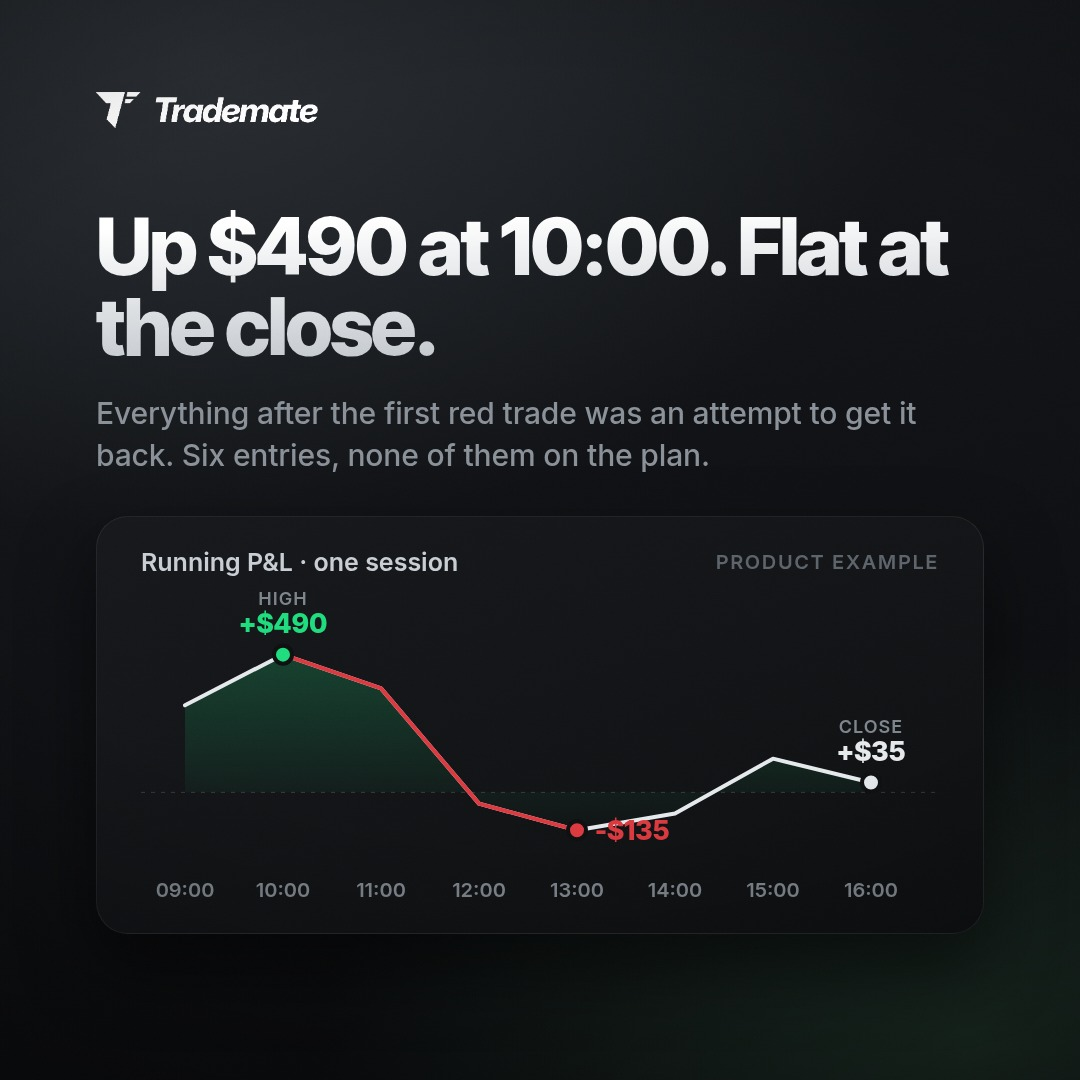
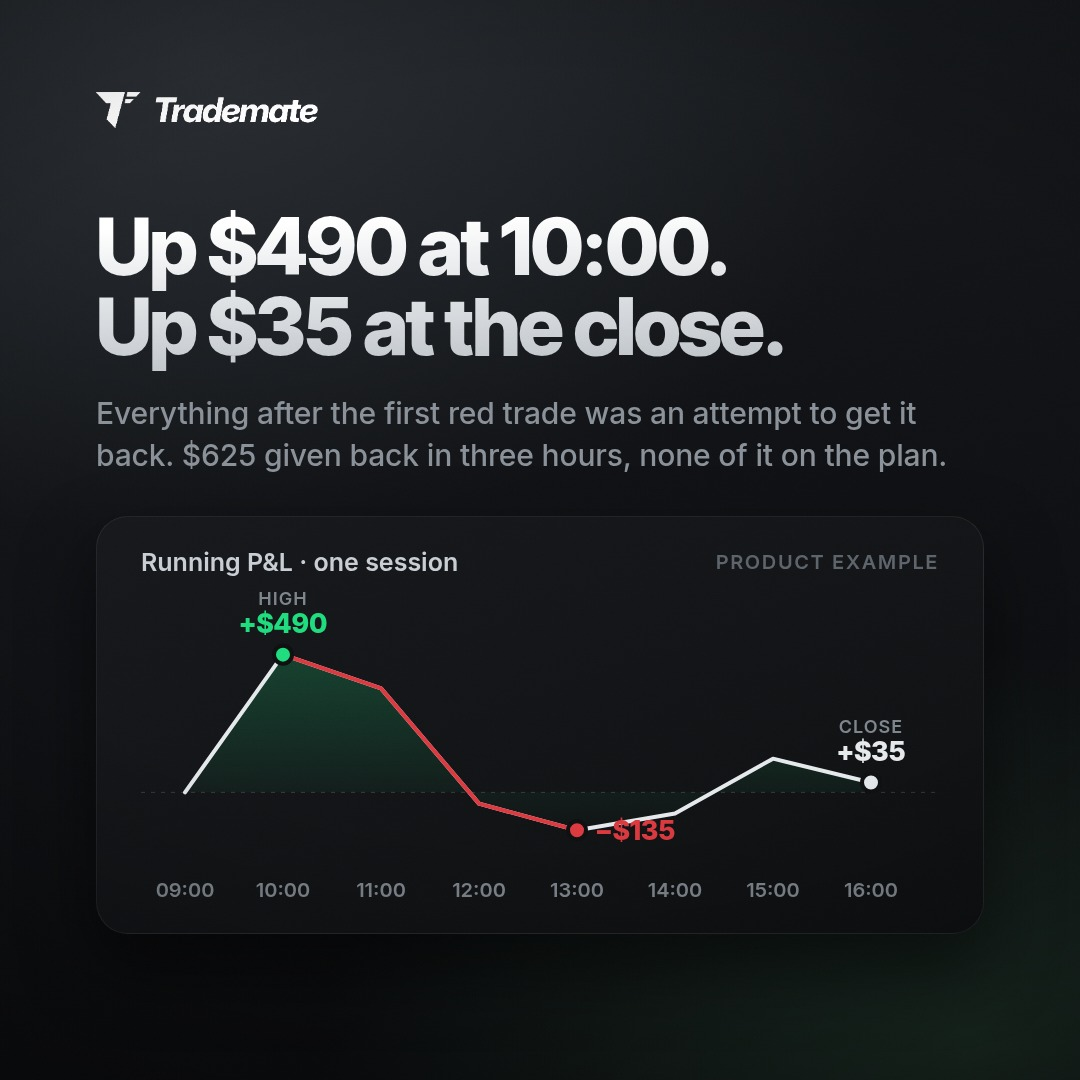
Pain posts: every claim now matches the card
Day post: the running P&L opens at $0 instead of +$310, the headline
states the actual close (+$35) instead of calling it flat, and the sub
quotes the $625 give-back the chart shows rather than an entry count it
cannot show. Swing post: notes say what happened (ran to +3.0R, planned
-1.0R), real minus signs, DE decimals with a comma to match the sub,
DE sub shortened so the card no longer touches the frame. Story headline
breaks before "auto charts" instead of inside it. Captions rewritten so
every figure appears on the card.

Claude-Session: https://claude.ai/code/session_01N2gUmRZUhZ4hqjJePYK53L

diff --git a/posts/pain-day-swing/src/post.html b/posts/pain-day-swing/src/post.html
@@ -151,15 +151,15 @@ en:{
   s6m:'EURUSD · 5m · attached automatically', ent:'Entry', ex:'Exit',
   s7h:'Which ships first?', s7s:'Both are on the roadmap. One of them is next — and you decide which.',
   oA:'Backtesting', oAd:'Comment A', oB:'Auto charts', oBd:'Comment B', s7f:'or vote in today’s story',
-  ste:'Major update · you decide', sth:'Backtesting or auto charts?', sts:'One of them ships next. Which one?',
+  ste:'Major update · you decide', sth:'Backtesting or<br>auto charts?', sts:'One of them ships next. Which one?',
   stA:'Backtesting', stAd:'Run your tagged setup across years of price history before you risk a cent.',
   stB:'Auto charts', stBd:'Every trade gets its chart attached automatically. Entry, exit, stop, target.',
   vote:'Vote below', zoneA:'Poll sticker goes here', zoneB:'Options: Backtesting · Auto charts',
   disc:'Product concept. Features shown are planned, not final.',
-  dayH:'Up $490 at 10:00. Flat at the close.', dayS:'Everything after the first red trade was an attempt to get it back. Six entries, none of them on the plan.',
+  dayH:'Up $490 at 10:00.<br>Up $35 at the close.', dayS:'Everything after the first red trade was an attempt to get it back. $625 given back in three hours, none of it on the plan.',
   dayM:'Running P&L · one session', dayF:'Product example', dayHi:'High', dayCl:'Close',
-  swH:'Three stops. Then you changed the rules.', swS:'The setup did not change. The trader did. Two off-plan exits turned a +1.4R month into -1.9R — more than the three stops cost.',
-  swM:'This month · 6 swing trades', swN:'Net', swP:'Net if on plan', swF:'Product example', plan:'On plan', early:'Exited early', moved:'Stop moved', planned:'plan'
+  swH:'Three stops. Then you changed the rules.', swS:'The setup did not change. The trader did. Two off-plan exits turned +1.4R into −1.9R — a bigger hit than the three stops.',
+  swM:'This month · 6 swing trades', swN:'Net', swP:'Net if on plan', swF:'Product example', plan:'On plan', early:'Exited early', earlyN:'ran to', moved:'Stop moved', movedN:'planned'
 },
 de:{
   swipe:'Wischen →', brand:'Trademate', concept:'Konzept, kein finales UI', of:'von',
@@ -180,15 +180,15 @@ de:{
   s6m:'EURUSD · 5m · automatisch angehängt', ent:'Entry', ex:'Exit',
   s7h:'Was kommt zuerst?', s7s:'Beides steht auf der Roadmap. Eins davon ist das Nächste – und du entscheidest, welches.',
   oA:'Backtesting', oAd:'Kommentar A', oB:'Auto-Charts', oBd:'Kommentar B', s7f:'oder stimm in der heutigen Story ab',
-  ste:'Major Update · du entscheidest', sth:'Backtesting oder Auto-Charts?', sts:'Eins davon kommt als Nächstes. Welches?',
+  ste:'Major Update · du entscheidest', sth:'Backtesting oder<br>Auto-Charts?', sts:'Eins davon kommt als Nächstes. Welches?',
   stA:'Backtesting', stAd:'Lass dein getaggtes Setup über Jahre Kurshistorie laufen, bevor du einen Cent riskierst.',
   stB:'Auto-Charts', stBd:'Jeder Trade bekommt seinen Chart automatisch angehängt. Entry, Exit, Stop, Ziel.',
   vote:'Stimm unten ab', zoneA:'Umfrage-Sticker hier platzieren', zoneB:'Optionen: Backtesting · Auto-Charts',
   disc:'Produktkonzept. Gezeigte Funktionen sind geplant, nicht final.',
-  dayH:'Um 10:00 bei +$490. Zum Close auf null.', dayS:'Alles nach dem ersten roten Trade war der Versuch, es zurückzuholen. Sechs Entries, keiner davon nach Plan.',
+  dayH:'Um 10:00 bei +$490.<br>Zum Close bei +$35.', dayS:'Alles nach dem ersten roten Trade war der Versuch, es zurückzuholen. $625 in drei Stunden zurückgegeben, nichts davon nach Plan.',
   dayM:'Laufender P&L · eine Session', dayF:'Produktbeispiel', dayHi:'Hoch', dayCl:'Close',
-  swH:'Drei Stops. Dann hast du die Regeln geändert.', swS:'Das Setup war dasselbe. Der Trader nicht. Zwei Exits gegen den Plan machten aus +1,4R im Monat -1,9R – mehr, als die drei Stops gekostet haben.',
-  swM:'Dieser Monat · 6 Swing-Trades', swN:'Netto', swP:'Netto nach Plan', swF:'Produktbeispiel', plan:'Nach Plan', early:'Zu früh raus', moved:'Stop verschoben', planned:'Plan'
+  swH:'Drei Stops. Dann hast du die Regeln geändert.', swS:'Das Setup war dasselbe. Der Trader nicht. Zwei Exits gegen den Plan machten aus +1,4R −1,9R – teurer als die drei Stops.',
+  swM:'Dieser Monat · 6 Swing-Trades', swN:'Netto', swP:'Netto nach Plan', swF:'Produktbeispiel', plan:'Nach Plan', early:'Zu früh raus', earlyN:'lief bis', moved:'Stop verschoben', movedN:'geplant'
 }}[LANG];
 
 function candles(){ // deterministic little 5m chart for slide 6
@@ -212,7 +212,7 @@ function candles(){ // deterministic little 5m chart for slide 6
 const logo='<img class="logo" src="logo.png" alt="Trademate">';
 const foot=(n)=>'<div class="foot"><span>'+C.brand+'</span><span>'+(n<7?C.swipe:'')+'</span><span>'+n+' / 7</span></div>';
 function runningPnl(){
-  const pts=[['09:00',310],['10:00',490],['11:00',370],['12:00',-40],['13:00',-135],['14:00',-75],['15:00',120],['16:00',35]];
+  const pts=[['09:00',0],['10:00',490],['11:00',370],['12:00',-40],['13:00',-135],['14:00',-75],['15:00',120],['16:00',35]];
   const W=800,H=330,padL=44,padR=70,top=54,bot=54,min=-230,max=560;
   const x=i=>padL+i*(W-padL-padR)/(pts.length-1), y=v=>top+(max-v)/(max-min)*(H-top-bot);
   let d=pts.map((p,i)=>(i?'L':'M')+x(i)+' '+y(p[1])).join(' ');
@@ -225,8 +225,8 @@ function runningPnl(){
   s+='<path d="M'+x(1)+' '+y(490)+' L'+x(2)+' '+y(370)+' L'+x(3)+' '+y(-40)+' L'+x(4)+' '+y(-135)+'" fill="none" stroke="#DC3A40" stroke-width="4" stroke-linejoin="round" stroke-linecap="round"/>';
   pts.forEach((p,i)=>s+='<text x="'+x(i)+'" y="'+(H-14)+'" text-anchor="middle" font-family="Inter" font-size="20" font-weight="600" fill="#7e868d">'+p[0]+'</text>');
   const mark=(i,v,l,col,dy,side)=>{s+='<circle cx="'+x(i)+'" cy="'+y(v)+'" r="9" fill="'+col+'" stroke="#0e1012" stroke-width="4"/>';
-    if(side){s+='<text x="'+(x(i)+18)+'" y="'+(y(v)+10)+'" font-family="Inter Tight" font-size="27" font-weight="800" fill="'+col+'">'+(v>=0?'+':'-')+'$'+Math.abs(v)+'</text>';return;}
-    s+='<text x="'+x(i)+'" y="'+(y(v)+dy)+'" text-anchor="middle" font-family="Inter Tight" font-size="27" font-weight="800" fill="'+col+'">'+(v>=0?'+':'-')+'$'+Math.abs(v)+'</text>';
+    if(side){s+='<text x="'+(x(i)+18)+'" y="'+(y(v)+10)+'" font-family="Inter Tight" font-size="27" font-weight="800" fill="'+col+'">'+(v>=0?'+':'−')+'$'+Math.abs(v)+'</text>';return;}
+    s+='<text x="'+x(i)+'" y="'+(y(v)+dy)+'" text-anchor="middle" font-family="Inter Tight" font-size="27" font-weight="800" fill="'+col+'">'+(v>=0?'+':'−')+'$'+Math.abs(v)+'</text>';
     s+='<text x="'+x(i)+'" y="'+(y(v)+dy+(dy<0?-28:26))+'" text-anchor="middle" font-family="Inter" font-size="18" font-weight="600" fill="#7e868d" letter-spacing="1">'+l.toUpperCase()+'</text>';};
   mark(1,490,C.dayHi,'#1FDD7F',-22); mark(4,-135,'','#DC3A40',0,true); mark(7,35,C.dayCl,'#e6e9ec',-22);
   return s+'</svg>';
@@ -242,15 +242,16 @@ function hourBars(){
     s+='<text x="'+(x+bw/2)+'" y="'+(H-6)+'" text-anchor="middle" font-family="Inter" font-size="21" font-weight="600" fill="#7e868d">'+h+':00</text>';});
   return s+'</svg>';
 }
-const swingRows=[['EURUSD','-1.0R','plan',''],['NVDA','-1.0R','plan',''],['GBPJPY','-1.0R','plan',''],['XAUUSD','+0.5R','early','+3.0R'],['AAPL','-1.8R','moved','-1.0R'],['MSFT','+2.4R','plan','']];
+const swingRows=[['EURUSD',-1.0,'plan',null],['NVDA',-1.0,'plan',null],['GBPJPY',-1.0,'plan',null],['XAUUSD',0.5,'early',3.0],['AAPL',-1.8,'moved',-1.0],['MSFT',2.4,'plan',null]];
+const fmtR=v=>(v>=0?'+':'−')+Math.abs(v).toFixed(1).replace('.',LANG==='de'?',':'.')+'R';
 const S={
  day:()=>logo+'<div class="hl" style="margin-top:78px">'+C.dayH+'</div><div class="sub">'+C.dayS+'</div>'
    +'<div class="card" style="margin-top:40px;padding:30px 44px 18px"><div class="hdr"><div class="t">'+C.dayM+'</div><div class="m">'+C.dayF+'</div></div><div style="margin-top:4px">'+runningPnl()+'</div></div>'
 ,
  swing:()=>logo+'<div class="hl" style="margin-top:78px">'+C.swH+'</div><div class="sub">'+C.swS+'</div>'
    +'<div class="card" style="margin-top:34px;padding:28px 44px 22px"><div class="hdr"><div class="t">'+C.swM+'</div><div class="m">'+C.swF+'</div></div>'
-   +'<div class="rows one">'+swingRows.map(([a,b,n,pl])=>'<div'+(n!=='plan'?' class="off"':'')+'><span>'+a+'</span><em>'+C[n]+(pl?' <i>· '+C.planned+' '+pl+'</i>':'')+'</em><b class="'+(b[0]==='+'?'g':'r')+'">'+b+'</b></div>').join('')
-   +'<div class="net"><span>'+C.swN+'</span><b class="r">-1.9R</b></div><div class="net alt"><span>'+C.swP+'</span><b class="g">+1.4R</b></div></div></div>',
+   +'<div class="rows one">'+swingRows.map(([a,b,n,pl])=>'<div'+(n!=='plan'?' class="off"':'')+'><span>'+a+'</span><em>'+C[n]+(pl!==null?' <i>· '+C[n+'N']+' '+fmtR(pl)+'</i>':'')+'</em><b class="'+(b>=0?'g':'r')+'">'+fmtR(b)+'</b></div>').join('')
+   +'<div class="net"><span>'+C.swN+'</span><b class="r">'+fmtR(-1.9)+'</b></div><div class="net alt"><span>'+C.swP+'</span><b class="g">'+fmtR(1.4)+'</b></div></div></div>',
  1:()=>logo+'<div class="eyebrow">'+C.s1e+'</div><div class="hl">'+C.s1h+'</div><div class="sub">'+C.s1s+'</div>'+foot(1),
  2:()=>logo+'<div class="hl" style="margin-top:70px">'+C.s2h+'</div><div class="cols"><div class="col"><h3>'+C.day+'</h3><ul>'+C.d.map(x=>'<li>'+x+'</li>').join('')+'</ul></div><div class="col s"><h3>'+C.swing+'</h3><ul>'+C.s.map(x=>'<li>'+x+'</li>').join('')+'</ul></div></div>'+foot(2),
  3:()=>logo+'<div class="hl" style="margin-top:70px;font-size:74px">'+C.s3h+'</div><div class="sub">'+C.s3s+'</div>'

diff --git a/posts/story-feature-poll/src/post.html b/posts/story-feature-poll/src/post.html
@@ -151,15 +151,15 @@ en:{
   s6m:'EURUSD · 5m · attached automatically', ent:'Entry', ex:'Exit',
   s7h:'Which ships first?', s7s:'Both are on the roadmap. One of them is next — and you decide which.',
   oA:'Backtesting', oAd:'Comment A', oB:'Auto charts', oBd:'Comment B', s7f:'or vote in today’s story',
-  ste:'Major update · you decide', sth:'Backtesting or auto charts?', sts:'One of them ships next. Which one?',
+  ste:'Major update · you decide', sth:'Backtesting or<br>auto charts?', sts:'One of them ships next. Which one?',
   stA:'Backtesting', stAd:'Run your tagged setup across years of price history before you risk a cent.',
   stB:'Auto charts', stBd:'Every trade gets its chart attached automatically. Entry, exit, stop, target.',
   vote:'Vote below', zoneA:'Poll sticker goes here', zoneB:'Options: Backtesting · Auto charts',
   disc:'Product concept. Features shown are planned, not final.',
-  dayH:'Up $490 at 10:00. Flat at the close.', dayS:'Everything after the first red trade was an attempt to get it back. Six entries, none of them on the plan.',
+  dayH:'Up $490 at 10:00.<br>Up $35 at the close.', dayS:'Everything after the first red trade was an attempt to get it back. $625 given back in three hours, none of it on the plan.',
   dayM:'Running P&L · one session', dayF:'Product example', dayHi:'High', dayCl:'Close',
-  swH:'Three stops. Then you changed the rules.', swS:'The setup did not change. The trader did. Two off-plan exits turned a +1.4R month into -1.9R — more than the three stops cost.',
-  swM:'This month · 6 swing trades', swN:'Net', swP:'Net if on plan', swF:'Product example', plan:'On plan', early:'Exited early', moved:'Stop moved', planned:'plan'
+  swH:'Three stops. Then you changed the rules.', swS:'The setup did not change. The trader did. Two off-plan exits turned +1.4R into −1.9R — a bigger hit than the three stops.',
+  swM:'This month · 6 swing trades', swN:'Net', swP:'Net if on plan', swF:'Product example', plan:'On plan', early:'Exited early', earlyN:'ran to', moved:'Stop moved', movedN:'planned'
 },
 de:{
   swipe:'Wischen →', brand:'Trademate', concept:'Konzept, kein finales UI', of:'von',
@@ -180,15 +180,15 @@ de:{
   s6m:'EURUSD · 5m · automatisch angehängt', ent:'Entry', ex:'Exit',
   s7h:'Was kommt zuerst?', s7s:'Beides steht auf der Roadmap. Eins davon ist das Nächste – und du entscheidest, welches.',
   oA:'Backtesting', oAd:'Kommentar A', oB:'Auto-Charts', oBd:'Kommentar B', s7f:'oder stimm in der heutigen Story ab',
-  ste:'Major Update · du entscheidest', sth:'Backtesting oder Auto-Charts?', sts:'Eins davon kommt als Nächstes. Welches?',
+  ste:'Major Update · du entscheidest', sth:'Backtesting oder<br>Auto-Charts?', sts:'Eins davon kommt als Nächstes. Welches?',
   stA:'Backtesting', stAd:'Lass dein getaggtes Setup über Jahre Kurshistorie laufen, bevor du einen Cent riskierst.',
   stB:'Auto-Charts', stBd:'Jeder Trade bekommt seinen Chart automatisch angehängt. Entry, Exit, Stop, Ziel.',
   vote:'Stimm unten ab', zoneA:'Umfrage-Sticker hier platzieren', zoneB:'Optionen: Backtesting · Auto-Charts',
   disc:'Produktkonzept. Gezeigte Funktionen sind geplant, nicht final.',
-  dayH:'Um 10:00 bei +$490. Zum Close auf null.', dayS:'Alles nach dem ersten roten Trade war der Versuch, es zurückzuholen. Sechs Entries, keiner davon nach Plan.',
+  dayH:'Um 10:00 bei +$490.<br>Zum Close bei +$35.', dayS:'Alles nach dem ersten roten Trade war der Versuch, es zurückzuholen. $625 in drei Stunden zurückgegeben, nichts davon nach Plan.',
   dayM:'Laufender P&L · eine Session', dayF:'Produktbeispiel', dayHi:'Hoch', dayCl:'Close',
-  swH:'Drei Stops. Dann hast du die Regeln geändert.', swS:'Das Setup war dasselbe. Der Trader nicht. Zwei Exits gegen den Plan machten aus +1,4R im Monat -1,9R – mehr, als die drei Stops gekostet haben.',
-  swM:'Dieser Monat · 6 Swing-Trades', swN:'Netto', swP:'Netto nach Plan', swF:'Produktbeispiel', plan:'Nach Plan', early:'Zu früh raus', moved:'Stop verschoben', planned:'Plan'
+  swH:'Drei Stops. Dann hast du die Regeln geändert.', swS:'Das Setup war dasselbe. Der Trader nicht. Zwei Exits gegen den Plan machten aus +1,4R −1,9R – teurer als die drei Stops.',
+  swM:'Dieser Monat · 6 Swing-Trades', swN:'Netto', swP:'Netto nach Plan', swF:'Produktbeispiel', plan:'Nach Plan', early:'Zu früh raus', earlyN:'lief bis', moved:'Stop verschoben', movedN:'geplant'
 }}[LANG];
 
 function candles(){ // deterministic little 5m chart for slide 6
@@ -212,7 +212,7 @@ function candles(){ // deterministic little 5m chart for slide 6
 const logo='<img class="logo" src="logo.png" alt="Trademate">';
 const foot=(n)=>'<div class="foot"><span>'+C.brand+'</span><span>'+(n<7?C.swipe:'')+'</span><span>'+n+' / 7</span></div>';
 function runningPnl(){
-  const pts=[['09:00',310],['10:00',490],['11:00',370],['12:00',-40],['13:00',-135],['14:00',-75],['15:00',120],['16:00',35]];
+  const pts=[['09:00',0],['10:00',490],['11:00',370],['12:00',-40],['13:00',-135],['14:00',-75],['15:00',120],['16:00',35]];
   const W=800,H=330,padL=44,padR=70,top=54,bot=54,min=-230,max=560;
   const x=i=>padL+i*(W-padL-padR)/(pts.length-1), y=v=>top+(max-v)/(max-min)*(H-top-bot);
   let d=pts.map((p,i)=>(i?'L':'M')+x(i)+' '+y(p[1])).join(' ');
@@ -225,8 +225,8 @@ function runningPnl(){
   s+='<path d="M'+x(1)+' '+y(490)+' L'+x(2)+' '+y(370)+' L'+x(3)+' '+y(-40)+' L'+x(4)+' '+y(-135)+'" fill="none" stroke="#DC3A40" stroke-width="4" stroke-linejoin="round" stroke-linecap="round"/>';
   pts.forEach((p,i)=>s+='<text x="'+x(i)+'" y="'+(H-14)+'" text-anchor="middle" font-family="Inter" font-size="20" font-weight="600" fill="#7e868d">'+p[0]+'</text>');
   const mark=(i,v,l,col,dy,side)=>{s+='<circle cx="'+x(i)+'" cy="'+y(v)+'" r="9" fill="'+col+'" stroke="#0e1012" stroke-width="4"/>';
-    if(side){s+='<text x="'+(x(i)+18)+'" y="'+(y(v)+10)+'" font-family="Inter Tight" font-size="27" font-weight="800" fill="'+col+'">'+(v>=0?'+':'-')+'$'+Math.abs(v)+'</text>';return;}
-    s+='<text x="'+x(i)+'" y="'+(y(v)+dy)+'" text-anchor="middle" font-family="Inter Tight" font-size="27" font-weight="800" fill="'+col+'">'+(v>=0?'+':'-')+'$'+Math.abs(v)+'</text>';
+    if(side){s+='<text x="'+(x(i)+18)+'" y="'+(y(v)+10)+'" font-family="Inter Tight" font-size="27" font-weight="800" fill="'+col+'">'+(v>=0?'+':'−')+'$'+Math.abs(v)+'</text>';return;}
+    s+='<text x="'+x(i)+'" y="'+(y(v)+dy)+'" text-anchor="middle" font-family="Inter Tight" font-size="27" font-weight="800" fill="'+col+'">'+(v>=0?'+':'−')+'$'+Math.abs(v)+'</text>';
     s+='<text x="'+x(i)+'" y="'+(y(v)+dy+(dy<0?-28:26))+'" text-anchor="middle" font-family="Inter" font-size="18" font-weight="600" fill="#7e868d" letter-spacing="1">'+l.toUpperCase()+'</text>';};
   mark(1,490,C.dayHi,'#1FDD7F',-22); mark(4,-135,'','#DC3A40',0,true); mark(7,35,C.dayCl,'#e6e9ec',-22);
   return s+'</svg>';
@@ -242,15 +242,16 @@ function hourBars(){
     s+='<text x="'+(x+bw/2)+'" y="'+(H-6)+'" text-anchor="middle" font-family="Inter" font-size="21" font-weight="600" fill="#7e868d">'+h+':00</text>';});
   return s+'</svg>';
 }
-const swingRows=[['EURUSD','-1.0R','plan',''],['NVDA','-1.0R','plan',''],['GBPJPY','-1.0R','plan',''],['XAUUSD','+0.5R','early','+3.0R'],['AAPL','-1.8R','moved','-1.0R'],['MSFT','+2.4R','plan','']];
+const swingRows=[['EURUSD',-1.0,'plan',null],['NVDA',-1.0,'plan',null],['GBPJPY',-1.0,'plan',null],['XAUUSD',0.5,'early',3.0],['AAPL',-1.8,'moved',-1.0],['MSFT',2.4,'plan',null]];
+const fmtR=v=>(v>=0?'+':'−')+Math.abs(v).toFixed(1).replace('.',LANG==='de'?',':'.')+'R';
 const S={
  day:()=>logo+'<div class="hl" style="margin-top:78px">'+C.dayH+'</div><div class="sub">'+C.dayS+'</div>'
    +'<div class="card" style="margin-top:40px;padding:30px 44px 18px"><div class="hdr"><div class="t">'+C.dayM+'</div><div class="m">'+C.dayF+'</div></div><div style="margin-top:4px">'+runningPnl()+'</div></div>'
 ,
  swing:()=>logo+'<div class="hl" style="margin-top:78px">'+C.swH+'</div><div class="sub">'+C.swS+'</div>'
    +'<div class="card" style="margin-top:34px;padding:28px 44px 22px"><div class="hdr"><div class="t">'+C.swM+'</div><div class="m">'+C.swF+'</div></div>'
-   +'<div class="rows one">'+swingRows.map(([a,b,n,pl])=>'<div'+(n!=='plan'?' class="off"':'')+'><span>'+a+'</span><em>'+C[n]+(pl?' <i>· '+C.planned+' '+pl+'</i>':'')+'</em><b class="'+(b[0]==='+'?'g':'r')+'">'+b+'</b></div>').join('')
-   +'<div class="net"><span>'+C.swN+'</span><b class="r">-1.9R</b></div><div class="net alt"><span>'+C.swP+'</span><b class="g">+1.4R</b></div></div></div>',
+   +'<div class="rows one">'+swingRows.map(([a,b,n,pl])=>'<div'+(n!=='plan'?' class="off"':'')+'><span>'+a+'</span><em>'+C[n]+(pl!==null?' <i>· '+C[n+'N']+' '+fmtR(pl)+'</i>':'')+'</em><b class="'+(b>=0?'g':'r')+'">'+fmtR(b)+'</b></div>').join('')
+   +'<div class="net"><span>'+C.swN+'</span><b class="r">'+fmtR(-1.9)+'</b></div><div class="net alt"><span>'+C.swP+'</span><b class="g">'+fmtR(1.4)+'</b></div></div></div>',
  1:()=>logo+'<div class="eyebrow">'+C.s1e+'</div><div class="hl">'+C.s1h+'</div><div class="sub">'+C.s1s+'</div>'+foot(1),
  2:()=>logo+'<div class="hl" style="margin-top:70px">'+C.s2h+'</div><div class="cols"><div class="col"><h3>'+C.day+'</h3><ul>'+C.d.map(x=>'<li>'+x+'</li>').join('')+'</ul></div><div class="col s"><h3>'+C.swing+'</h3><ul>'+C.s.map(x=>'<li>'+x+'</li>').join('')+'</ul></div></div>'+foot(2),
  3:()=>logo+'<div class="hl" style="margin-top:70px;font-size:74px">'+C.s3h+'</div><div class="sub">'+C.s3s+'</div>'

diff --git a/posts/pain-day-swing/captions.md b/posts/pain-day-swing/captions.md
@@ -1,30 +1,34 @@
 # Feed posts — the day-trader pain, the swing-trader pain
 
 Two independent 1080×1080 posts in the daily-post format, EN and DE. Neither
-mentions a feature or the poll.
+mentions a feature or the poll. Every number in a caption is on the card.
 
-## pain_day — "Up $490 at 10:00. Flat at the close."
+## pain_day — "Up $490 at 10:00. Up $35 at the close."
+
+Card: running P&L of one session. Open at $0, high +$490 at 10:00, low −$135
+at 13:00, close +$35. Give-back 10:00→13:00 = $625.
 
 EN
-Up $490 an hour into the session. Flat at the bell. The chart of that day is
-not a chart of the market — it is a chart of one trader chasing the first
-red trade. Six entries after 11:00, none of them on the plan, every one of
-them an attempt to get back to +$490. The give-back is the most expensive
-hour of the day, and it never shows up in the win rate. Product example:
-these figures illustrate the feature, not real trader results.
+Up $490 one hour into the session. Up $35 at the close. The chart of that
+day is not a chart of the market — it is a chart of one trader chasing the
+first red trade. Between 10:00 and 13:00 the account gave back $625, and not
+one of those entries was on the plan. The afternoon clawed some of it back.
+It usually does, which is exactly why the give-back never shows up in the
+win rate. Product example: these figures illustrate the feature, not real
+trader results.
 
 See your session as a running P&L — 7-day trial, link in bio.
 
 #daytrading #tradingpsychology #tradingjournal #riskmanagement #tradingedge
 
 DE
-Eine Stunde nach Open +$490. Zum Close auf null. Der Chart dieses Tages ist
-kein Chart vom Markt — er ist der Chart eines Traders, der dem ersten roten
-Trade hinterherläuft. Sechs Entries nach 11:00, keiner davon nach Plan, jeder
-ein Versuch, zurück auf +$490 zu kommen. Das Zurückgeben ist die teuerste
-Stunde des Tages, und in der Trefferquote taucht sie nie auf.
-Produktbeispiel: Die Zahlen veranschaulichen die Funktion, keine echten
-Handelsergebnisse.
+Eine Stunde nach Open +$490. Zum Close +$35. Der Chart dieses Tages ist kein
+Chart vom Markt — er ist der Chart eines Traders, der dem ersten roten Trade
+hinterherläuft. Zwischen 10:00 und 13:00 hat das Konto $625 zurückgegeben,
+und kein einziger dieser Entries war nach Plan. Der Nachmittag hat einen
+Teil davon zurückgeholt. Das tut er meistens, und genau deshalb taucht das
+Zurückgeben in der Trefferquote nie auf. Produktbeispiel: Die Zahlen
+veranschaulichen die Funktion, keine echten Handelsergebnisse.
 
 Sieh deine Session als laufenden P&L — 7 Tage kostenlos, Link in Bio.
 
@@ -32,14 +36,19 @@ Sieh deine Session als laufenden P&L — 7 Tage kostenlos, Link in Bio.
 
 ## pain_swing — "Three stops. Then you changed the rules."
 
+Card: six swing trades. Three stops on plan (−1.0R each), XAUUSD exited
+early at +0.5R on a trade that ran to +3.0R, AAPL stop moved from −1.0R to
+−1.8R, MSFT on plan +2.4R. As traded −1.9R, on plan +1.4R. The two
+deviations cost 3.3R, the three stops 3.0R.
+
 EN
 Three stops in a row is the setup doing what setups do. What happened on the
-fourth trade is the part that costs money: out early at +0.5R on a trade
-planned for +3R, then a stop moved on the fifth that turned −1R into −1.8R.
-The setup did not change. The trader did. On plan, the month closes +1.4R.
-As traded, it closes −1.9R. The two deviations cost 3.3R — more than the
-three stops combined. Product example: these figures illustrate the
-feature, not real trader results.
+fourth trade is the part that costs money: out at +0.5R on a trade that went
+on to +3.0R, then a stop moved on the fifth that turned −1.0R into −1.8R. The
+setup did not change. The trader did. On plan, the month closes +1.4R. As
+traded, it closes −1.9R. The two deviations cost 3.3R — more than the three
+stops combined. Product example: these figures illustrate the feature, not
+real trader results.
 
 Tag every off-plan exit — Trademate, link in bio.
 
@@ -48,10 +57,10 @@ Tag every off-plan exit — Trademate, link in bio.
 DE
 Drei Stops in Folge sind das Setup, das tut, was Setups tun. Was beim vierten
 Trade passiert, ist der Teil, der Geld kostet: raus bei +0,5R in einem Trade,
-der auf +3R geplant war, dann beim fünften ein verschobener Stop, der aus −1R
-−1,8R macht. Das Setup war dasselbe. Der Trader nicht. Nach Plan schließt der
-Monat bei +1,4R. So gehandelt bei −1,9R. Die zwei Abweichungen kosteten 3,3R —
-mehr als die drei Stops zusammen. Produktbeispiel: Die Zahlen
+der danach bis +3,0R lief, dann beim fünften ein verschobener Stop, der aus
+−1,0R −1,8R macht. Das Setup war dasselbe. Der Trader nicht. Nach Plan
+schließt der Monat bei +1,4R. So gehandelt bei −1,9R. Die zwei Abweichungen
+kosteten 3,3R — mehr als die drei Stops zusammen. Produktbeispiel: Die Zahlen
 veranschaulichen die Funktion, keine echten Handelsergebnisse.
 
 Tagge jeden Exit gegen den Plan — Trademate, Link in Bio.
